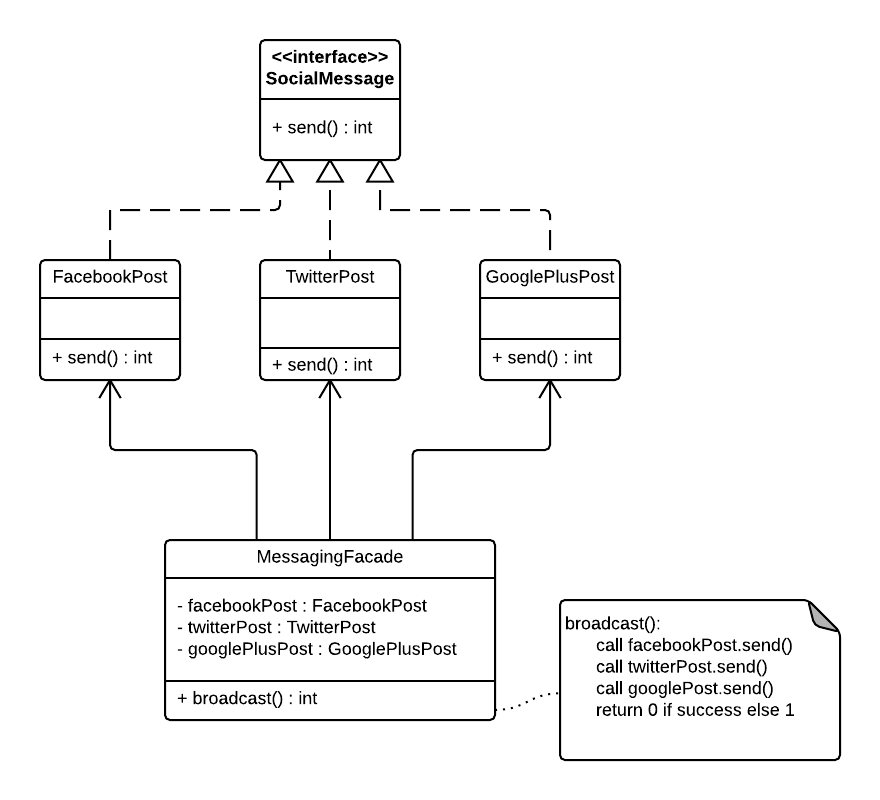
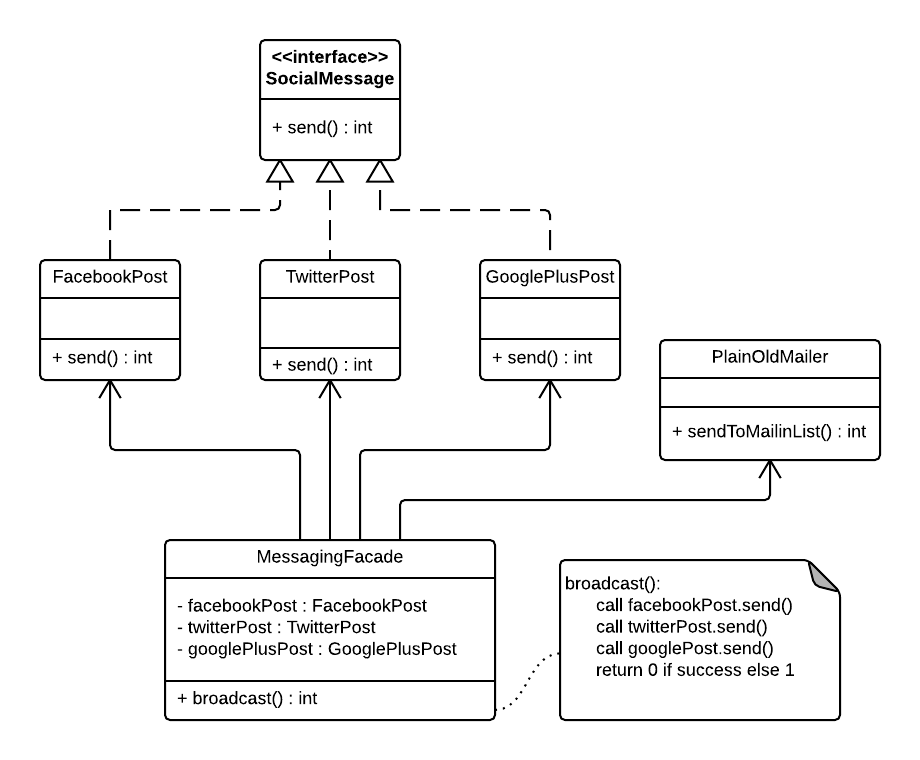
GOF facade pattern

Changed region(s): [[0.0307, 0.2421, 0.9818, 0.9684], [0.2761, 0.0303, 0.4602, 0.2724], [0.9511, 0.7868, 0.9818, 0.9382]]

diff --git a/src/main/java/com/acordier/patterns/MessagingFacade.java b/src/main/java/com/acordier/patterns/MessagingFacade.java
@@ -8,11 +8,13 @@ public class MessagingFacade {
 	private FacebookPost facebookPost;
 	private TwitterPost twitterPost;
 	private GooglePlusPost googlePlusPost;
+	private PlainOldMailer plainOldMailer;
 	
 	public MessagingFacade() {
 		this.facebookPost = new FacebookPost();
 		this.twitterPost = new TwitterPost();
 		this.googlePlusPost = new GooglePlusPost();
+		this.plainOldMailer = new PlainOldMailer();
 	}
 	
 	/* 
@@ -26,6 +28,7 @@ public class MessagingFacade {
 			this.facebookPost.send();
 			this.twitterPost.send();
 			this.googlePlusPost.send();
+			this.plainOldMailer.sendToMailingList();
 			// COMMIT
 		} catch (Exception e) {
 			// ROLLBACK

diff --git a/src/main/java/com/acordier/patterns/PlainOldMailer.java b/src/main/java/com/acordier/patterns/PlainOldMailer.java
@@ -1,0 +1,7 @@
+package com.acordier.patterns;
+
+public class PlainOldMailer {
+	public void sendToMailingList(){
+		System.out.println("Sending to mailing list");
+	}
+}
